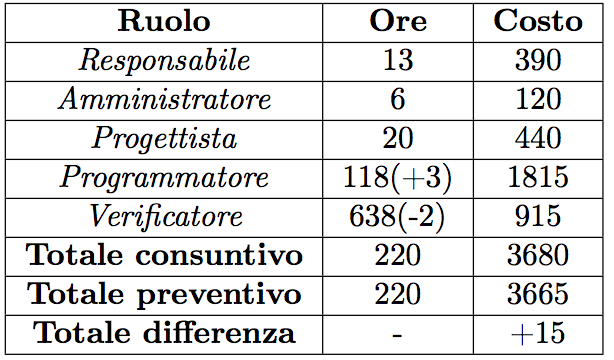
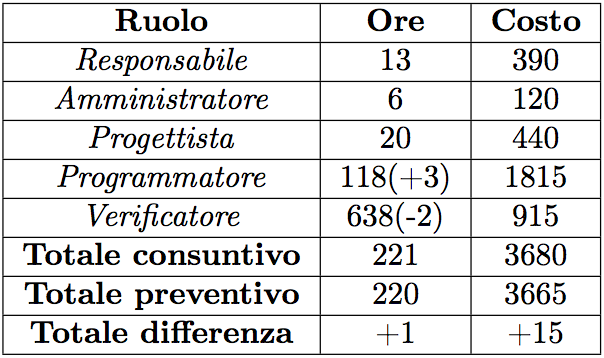
parte 5

Changed region(s): [[0.0, 0.0, 1.0, 1.0]]

diff --git a/3-RQ/presentazioneRQ/parte5.tex b/3-RQ/presentazioneRQ/parte5.tex
@@ -29,8 +29,8 @@ Rispetto al preventivo, sono emerse differenze con una diminuzione di 2 ore per 
 	\end{center}
 	
 	
-Come visto nel consultivo del periodo di Codifica il team ha superato il preventivo di 15€.\\
-Tenendo conto del risultato dei consultivi nei periodi precedenti il bilancio totale risulta negativo per 89€.\\
-Il Team si impegna prendendosi a carico le spese che eccedono dal preventivo.
+Come visto nel consultivo del periodo di \textit{Codifica}, il team ha superato il preventivo di 15 \euro.\\
+Tenendo conto del risultato dei consultivi nei periodi precedenti, il bilancio totale risulta negativo per 89 \euro.\\
+
 \end{frame}
 

diff --git a/3-RQ/Esterni/PdP/contenuto.tex b/3-RQ/Esterni/PdP/contenuto.tex
@@ -1240,11 +1240,11 @@ Verranno indicate le ore di ruolo e le spese effettivamente sostenute nella fase
 		\hline  \emph{Programmatore}  & 118(+3) & 1815 \\
 		\hline  \emph{Verificatore}  & 638(-2) & 915 \\
 		\hline
-		\textbf{Totale consuntivo} & 220 & 3680 \\
+		\textbf{Totale consuntivo} & 221 & 3680 \\
 		\hline
 		\textbf{Totale preventivo} & 220 &  3665\\
 		\hline
-		\textbf{Totale differenza} & - & +15 \\
+		\textbf{Totale differenza} & +1 & +15 \\
 		\hline
 	\end{tabular}
 	\captionof{table}{Ore totali di investimento - differenza preventivo/consuntivo in fase di Codifica}

diff --git a/3-RQ/presentazioneRQ/presentazione_RQ.tex b/3-RQ/presentazioneRQ/presentazione_RQ.tex
@@ -4,6 +4,7 @@
 %%% Dichiarazione dei pacchetti standard.
 \usepackage[italian]{babel}
 \usepackage[utf8x]{inputenc}
+\usepackage{eurosym}
 %%% Personalizzazione del layout---articolata su cinque livelli.
 %\usetheme{split}        % layout complessivo. 
 %\usetheme{CambridgeUS}
